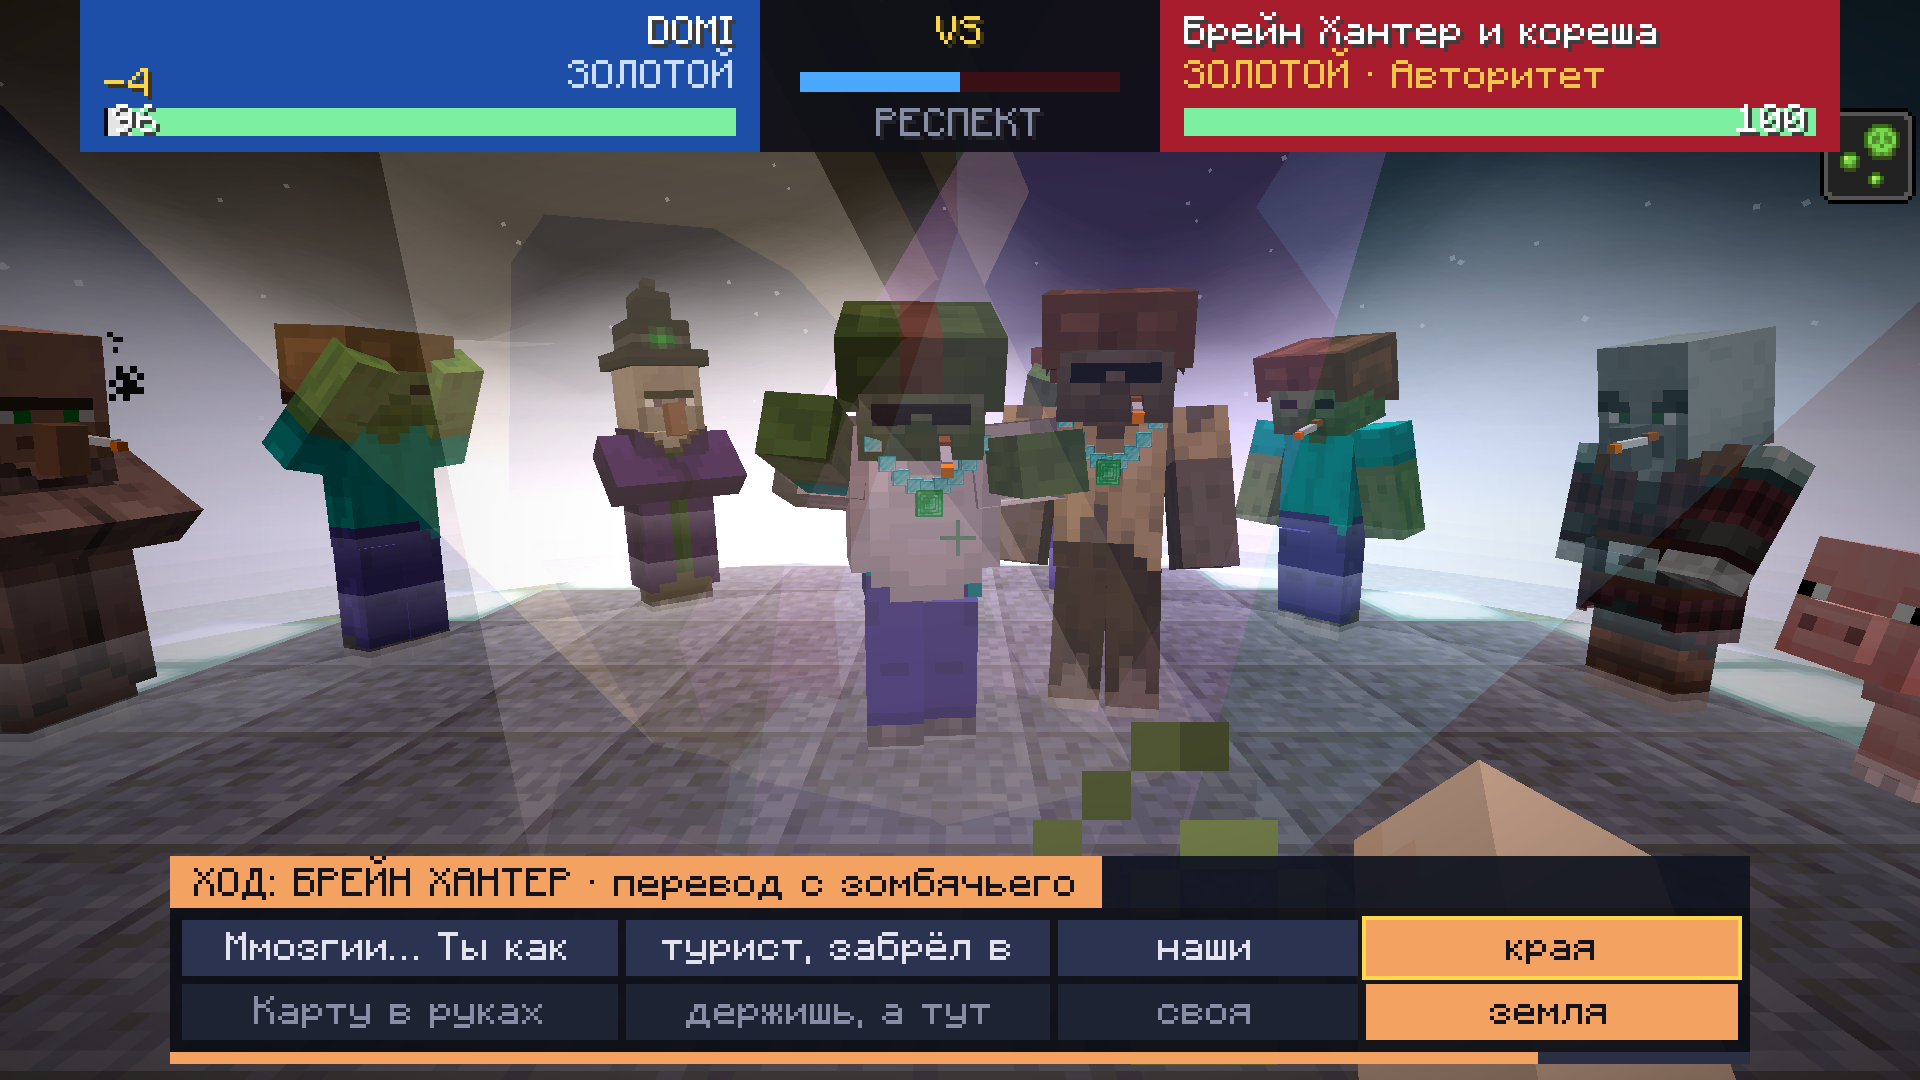
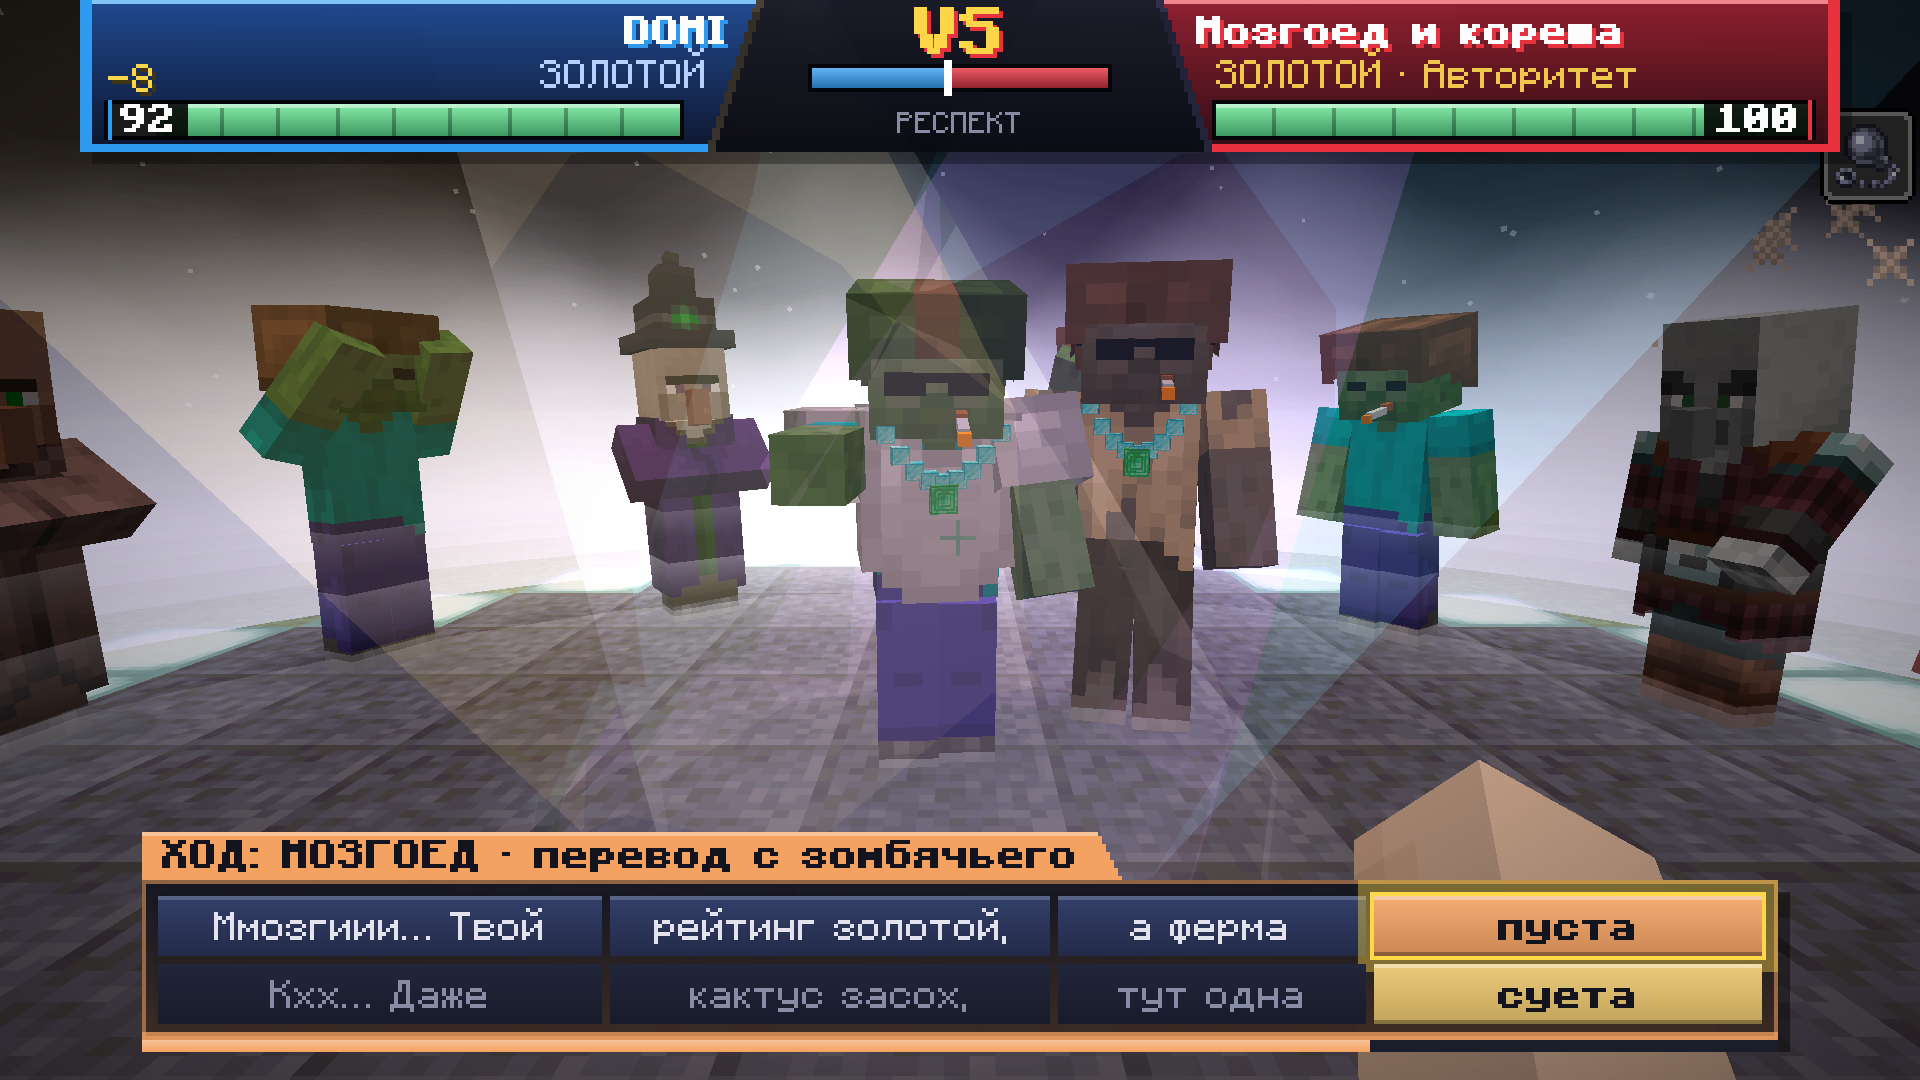
Новые скриншоты в README, без сигарет у носатых мобов

diff --git a/src/client/java/dev/rapbattle/client/Bling.java b/src/client/java/dev/rapbattle/client/Bling.java
@@ -34,12 +34,22 @@ public final class Bling {
 	/** Does this entity have a cigarette right now (the mob on stage, and about every third fan in the crowd). */
 	static boolean smokes(int id) {
 		BattleView v = ClientBattle.view;
-		if (v == null || id < 0 || "LOBBY".equals(v.phase) || !ClientConfig.get().bling) return false;
+		if (v == null || id < 0 || "LOBBY".equals(v.phase) || !ClientConfig.get().bling || nosed(id)) return false;
 		if (v.mobEntityIds.contains(id)) return true;
 		return v.crowdIds.contains(id) && Math.floorMod(id * 7 + 1, 3) == 0;
 	}
 
 	static boolean isBiped(String type) { return BIPEDS.contains(type); }
+
+	/** Villagers and illagers: their big nose sits right where the mouth is, so a cigarette would stick out of it. */
+	private static final Set<String> NOSED = Set.of("villager", "wandering_trader", "zombie_villager", "pillager",
+		"vindicator", "evoker", "illusioner", "witch");
+
+	static boolean nosed(int id) {
+		var mc = net.minecraft.client.MinecraftClient.getInstance();
+		var e = mc.world == null ? null : mc.world.getEntityById(id);
+		return e != null && NOSED.contains(Registries.ENTITY_TYPE.getId(e.getType()).getPath());
+	}
 
 	/** What this entity wears in the current battle, or null. */
 	static Kit kitFor(int id) {
@@ -58,7 +68,7 @@ public final class Bling {
 			boolean glasses = r >= 3 || "На понтах".equals(v.mobMood) || "Опасный".equals(v.mobMood)
 				|| "Flexing".equals(v.mobMood) || "Dangerous".equals(v.mobMood);
 			BlockState cap = v.gangColor >= 0 && !helmet ? concrete(v.gangColor) : null;
-			return new Kit(chain, pendant, glasses, cap, true);
+			return new Kit(chain, pendant, glasses, cap, !nosed(id));
 		}
 		if (smokes(id)) return new Kit(null, null, false, null, true);
 		for (BattleView.Member mm : v.team) {
